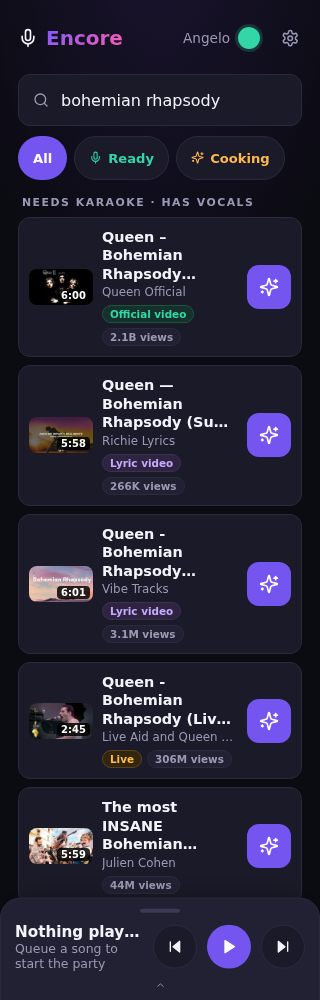
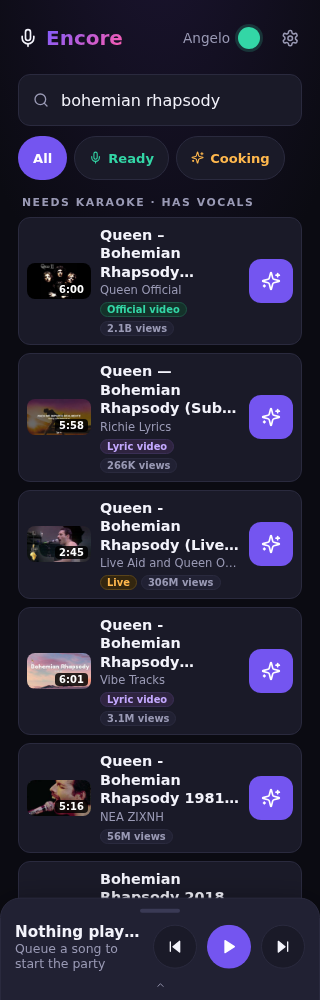
fix(phone): say it in party English, and explain the red badge
From a first-time-guest review of the captured frames by someone with no
context on the build. Four findings that were mine to fix:

"Separating vocals…" is what the WORKER does, not what the guest is waiting
for, and "instrumental" is a musician's word — the reviewer called the pair
"written for the developer, not the guest at a party". Now "Making karaoke…
68% · ~1 min left" and "Karaoke ready". The percentage and the ETA are
untouched; the same review called those the honest part.

"Not a song?" was read as a question being put TO the guest ("am I being
asked?"). It was: a question mark hedging OUR uncertainty looked like a
prompt. Now "Not music", and a test asserts no chip label is phrased as a
question.

The red 21:56 badge was "a red badge you don't understand" — the colour
said something was wrong without saying what, which is worse than staying
quiet, and it was the most trustworthy signal on the row. durationHint puts
it in words beside it: "Longer than a song" / "Shorter than a song", tested
to agree with the badge for every case so the two can never disagree.

At 320px only about four songs fit before the player bar, and comparing
uploads is the whole feature — so how many fit at once IS the feature.
Tighter chips and padding buy roughly a fifth of a row back; five fit now,
with the title and the 44px target untouched.

Frames re-captured from the running server.

diff --git a/apps/core/src/lib/components/SongRow.svelte b/apps/core/src/lib/components/SongRow.svelte
@@ -22,6 +22,7 @@
 	import Icon from '$lib/ui/Icon.svelte';
 	import {
 		classifyVideoKind,
+		durationHint,
 		formatDuration,
 		formatViewCount,
 		isUnusualSongDuration,
@@ -107,8 +108,10 @@
 
 	const duration = $derived(formatDuration(durationSec));
 	// A threshold, not a parse — see isUnusualSongDuration. Draws the badge as a warning so a 21:56
-	// concert rip and a 0:30 clip invite a second look without being hidden.
+	// concert rip and a 0:30 clip invite a second look without being hidden. The colour alone was read
+	// by a first-time guest as "a red badge you don't understand", so the words go in a chip too.
 	const oddDuration = $derived(isUnusualSongDuration(durationSec));
+	const durationNote = $derived(durationHint(durationSec));
 
 	// Kind is guessed from the RAW title, so it is only offered when there is something to say:
 	// `unknown` yields no label and therefore no chip, rather than an empty pill or a false "Official".
@@ -124,12 +127,18 @@
 	 * the group header above these rows says "Needs karaoke · has vocals", and the header is guaranteed
 	 * to be on screen whenever raw rows are: both are gated on `filter === 'all'` (+page.svelte
 	 * `showRaw` / `showGroupHeads`), so there is no filter state that shows one without the other.
+	 *
+	 * PARTY ENGLISH, not engineer English. A first-time guest called the earlier wording — "Separating
+	 * vocals…" and "instrumental ready" — "written for the developer, not the guest at a party":
+	 * separating vocals is what the WORKER does, and "instrumental" is a musician's word. What a guest
+	 * is waiting for is a karaoke track. The percentage and the ETA stay exactly as they were; the same
+	 * review called those the honest part.
 	 */
 	const stateChip = $derived.by(() => {
-		if (readiness === 'ready') return 'instrumental ready';
+		if (readiness === 'ready') return 'Karaoke ready';
 		if (readiness === 'cooking') {
-			const eta = etaSec && etaSec > 0 ? ` · ~${Math.max(1, Math.round(etaSec / 60))} min` : '';
-			return `Separating vocals… ${pct}%${eta}`;
+			const eta = etaSec && etaSec > 0 ? ` · ~${Math.max(1, Math.round(etaSec / 60))} min left` : '';
+			return `Making karaoke… ${pct}%${eta}`;
 		}
 		return null;
 	});
@@ -172,12 +181,15 @@
 	<div class="meta">
 		<div class="t">{title}{#if readiness === 'cooking'}<span class="sparkle"><Icon name="sparkle" /></span>{/if}</div>
 		{#if byline}<div class="byline">{byline}</div>{/if}
-		{#if kindLabel || stateChip || views}
+		{#if kindLabel || stateChip || views || durationNote}
 			<div class="chips">
 				{#if stateChip}
 					<span class="chip state" class:ok={readiness === 'ready'} class:warn={readiness === 'cooking'}>{stateChip}</span>
 				{/if}
 				{#if kindLabel}<span class="chip kind {kind}">{kindLabel}</span>{/if}
+				<!-- The red badge, said out loud. Ordered after the kind so "Live · Longer than a song"
+				     reads as one thought about the same recording. -->
+				{#if durationNote}<span class="chip odd-dur">{durationNote}</span>{/if}
 				{#if views}<span class="chip">{views} views</span>{/if}
 			</div>
 		{/if}
@@ -307,6 +319,8 @@
 	.chip.kind.lyric { background: #2f2440; border-color: var(--line-tint); color: #c4a9ff; }
 	.chip.kind.live { background: #33260f; border-color: #5a441a; color: var(--warn); }
 	.chip.kind.suspect { background: var(--danger-bg); border-color: var(--danger-line); color: var(--danger-ink); }
+	/* Same treatment as the badge it explains, so the two read as one signal rather than two. */
+	.chip.odd-dur { background: var(--danger-bg); border-color: var(--danger-line); color: var(--danger-ink); }
 
 	.bar { height: 4px; border-radius: 4px; background: var(--card-tint2); overflow: hidden; margin-top: 7px; }
 	.bar > i { display: block; height: 100%; width: 100%; background: var(--grad); border-radius: 4px; transform-origin: left center; transition: transform 0.4s ease; }
@@ -354,5 +368,15 @@
 		.thumb { width: 64px; height: 36px; }
 		.t { -webkit-line-clamp: 3; line-clamp: 3; }
 		.row { gap: 9px; }
+		/*
+		 * Claw back height. A guest reviewing the 320px frame could see only about four songs before
+		 * the player bar and called it irritating to scroll — and comparing uploads is the entire point,
+		 * so how many fit at once IS the feature. Smaller chips and tighter gaps buy roughly a fifth of
+		 * a row back without shrinking the title or the 44px target.
+		 */
+		.chip { font-size: 0.62rem; padding: 1px 6px; }
+		.chips { gap: 4px; margin-top: 5px; }
+		.byline { font-size: 0.72rem; }
+		.row { padding: 8px; }
 	}
 </style>

diff --git a/packages/shared/src/video-kind.ts b/packages/shared/src/video-kind.ts
@@ -92,9 +92,15 @@ export function classifyVideoKind(title: string): VideoKind {
 	return 'unknown';
 }
 
-/** Short label for the chip. `unknown` has none: an empty chip is worse than no chip. */
+/*
+ * "Not music", not "Not a song?".
+ *
+ * A first-time guest reading the old label said it was "phrased as a question to me, which is
+ * bizarre — am I being asked?". It was: a question mark hedging OUR uncertainty looked like a prompt
+ * for the guest to answer. The hedge belongs in this comment, not on the chip.
+ */
 export const VIDEO_KIND_LABEL: Record<VideoKind, string | null> = {
-	suspect: 'Not a song?',
+	suspect: 'Not music',
 	live: 'Live',
 	lyric: 'Lyric video',
 	official: 'Official video',
@@ -123,6 +129,19 @@ export const SONG_MIN_SEC = 75;
 export function isUnusualSongDuration(durationSec: number | undefined): boolean {
 	if (!durationSec || durationSec <= 0) return false;
 	return durationSec > SONG_MAX_SEC || durationSec < SONG_MIN_SEC;
+}
+
+/**
+ * The same judgement IN WORDS, for a chip beside the badge.
+ *
+ * Exists because a first-time guest reviewing this screen read the red 21:56 badge as "a red badge
+ * you don't understand" — the colour said something was wrong without saying what, which is worse
+ * than staying quiet. The most trustworthy signal on the row was the least legible one. Null when the
+ * duration is ordinary or unknown, so no chip renders.
+ */
+export function durationHint(durationSec: number | undefined): string | null {
+	if (!isUnusualSongDuration(durationSec)) return null;
+	return durationSec! > SONG_MAX_SEC ? 'Longer than a song' : 'Shorter than a song';
 }
 
 /** `3:44` / `21:56` / `1:02:03`. Empty string for an absent or zero duration, so the badge can hide. */

diff --git a/packages/shared/src/video-kind.test.ts b/packages/shared/src/video-kind.test.ts
@@ -4,6 +4,7 @@
 import { test, it, expect, describe } from 'bun:test';
 import {
 	classifyVideoKind,
+	durationHint,
 	isUnusualSongDuration,
 	formatDuration,
 	formatViewCount,
@@ -89,6 +90,33 @@ test('unknown carries no label, so no empty chip can render', () => {
 	for (const kind of ['suspect', 'live', 'lyric', 'official'] as const) {
 		expect(VIDEO_KIND_LABEL[kind]).toBeTruthy();
 	}
+});
+
+// A first-time guest read "Not a song?" as a question being put TO them. A chip states; it does not ask.
+test('no label is phrased as a question', () => {
+	for (const label of Object.values(VIDEO_KIND_LABEL)) {
+		if (label) expect(label).not.toContain('?');
+	}
+});
+
+describe('durationHint — the red badge, in words', () => {
+	it('names which way the duration is wrong', () => {
+		expect(durationHint(21 * 60 + 56)).toBe('Longer than a song');
+		expect(durationHint(30)).toBe('Shorter than a song');
+	});
+
+	it('says nothing about an ordinary or unknown duration', () => {
+		expect(durationHint(224)).toBeNull();
+		expect(durationHint(0)).toBeNull();
+		expect(durationHint(undefined)).toBeNull();
+	});
+
+	// The badge colour and the chip must never disagree — they are the same judgement.
+	it('agrees with isUnusualSongDuration for every case', () => {
+		for (const d of [undefined, 0, 30, 74, 75, 224, 360, 480, 481, 1316]) {
+			expect(durationHint(d) !== null).toBe(isUnusualSongDuration(d));
+		}
+	});
 });
 
 describe('isUnusualSongDuration — a threshold, not a parse', () => {
